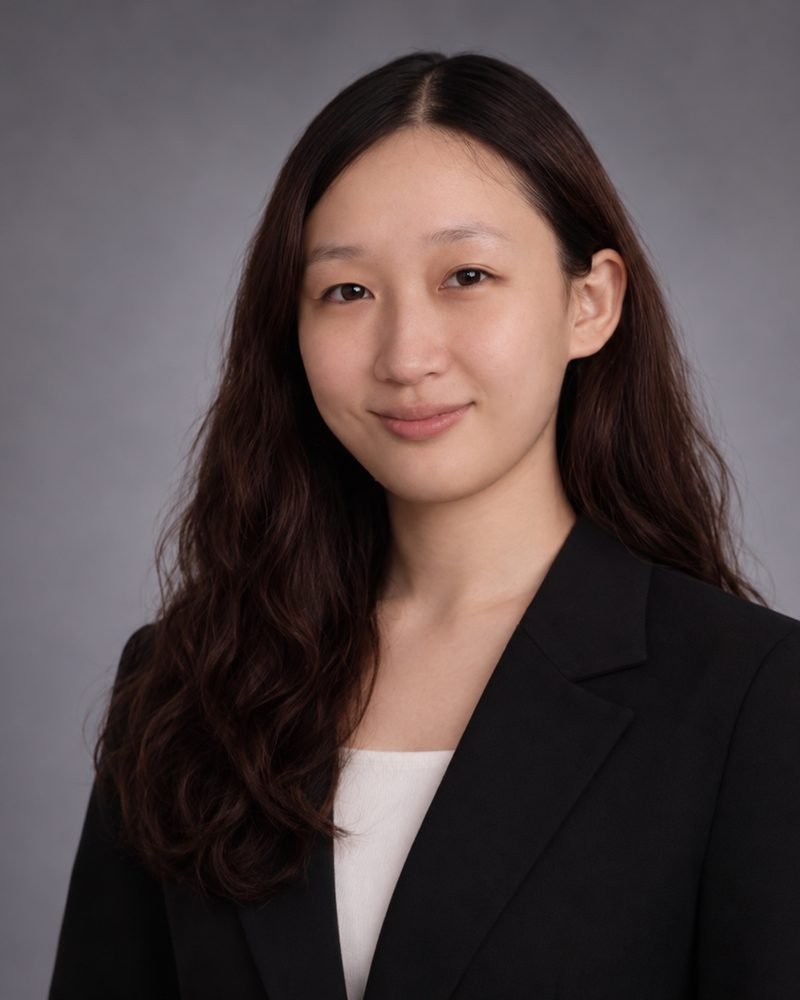
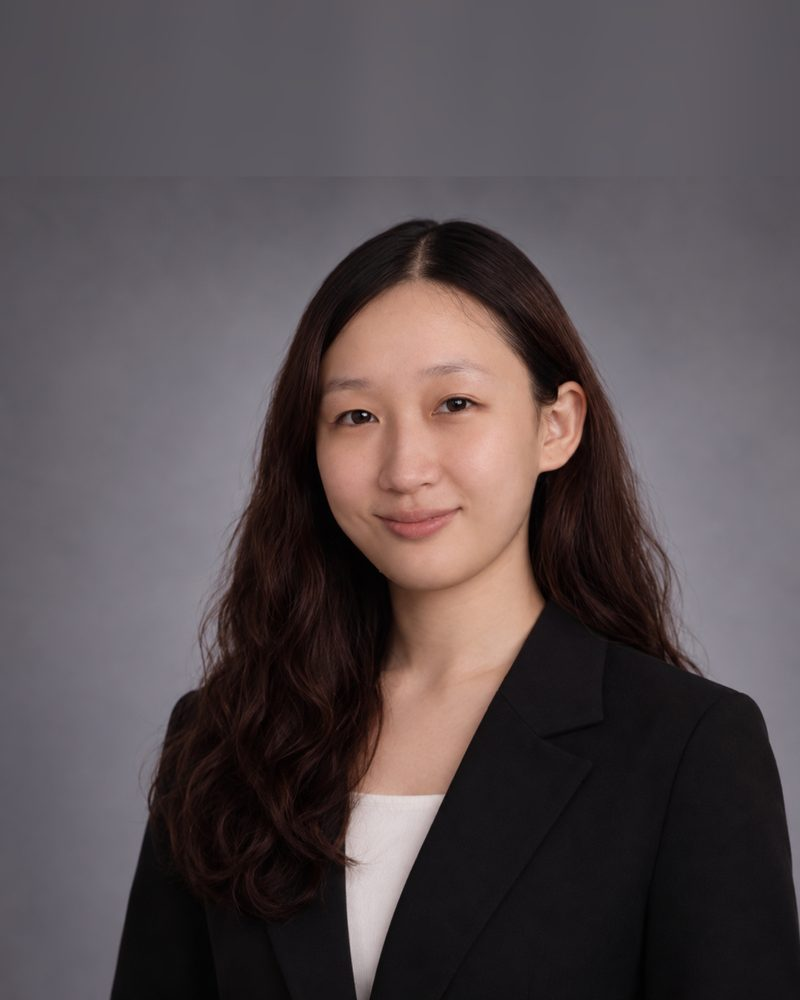
Give Rainbow Lin's headshot more headroom; revert Yuanyuan Cui's photo position

diff --git a/site/people/index.html b/site/people/index.html
@@ -89,7 +89,7 @@
         </article>
 
         <article class="person reveal">
-          <picture><source srcset="/assets/img/people/yuanyuan-cui.webp" type="image/webp"><img class="person__photo" style="object-position:50% 0%" src="/assets/img/people/yuanyuan-cui.jpg" alt="Yuanyuan Cui" loading="lazy" width="264" height="264"></picture>
+          <picture><source srcset="/assets/img/people/yuanyuan-cui.webp" type="image/webp"><img class="person__photo" src="/assets/img/people/yuanyuan-cui.jpg" alt="Yuanyuan Cui" loading="lazy" width="264" height="264"></picture>
           <h2 class="person__name">Yuanyuan Cui</h2>
           <p class="person__bio">I&rsquo;m a Master of Information student at the University of Toronto, focusing on data science and information systems design. My background is in finance, and it shapes how I look at data: I tend to ask what the numbers really mean, what risks they show, and what decisions they can support. I bring that mindset to my experience in data analysis and systems integration.</p>
           <p class="person__bio">It&rsquo;s also why I&rsquo;m interested in where technologies come from. I like looking at those stories through both a data and a financial lens: what the numbers say about how an idea grew, and what made it worth the investment.</p>
@@ -103,7 +103,7 @@
         </article>
 
         <article class="person reveal">
-          <picture><source srcset="/assets/img/people/yuhong-lin.webp" type="image/webp"><img class="person__photo" src="/assets/img/people/yuhong-lin.jpg" alt="Yuhong (Rainbow) Lin" loading="lazy" width="264" height="264"></picture>
+          <picture><source srcset="/assets/img/people/yuhong-lin.webp?v=2" type="image/webp"><img class="person__photo" src="/assets/img/people/yuhong-lin.jpg?v=2" alt="Yuhong (Rainbow) Lin" loading="lazy" width="264" height="264"></picture>
           <h2 class="person__name">Yuhong (Rainbow) Lin</h2>
           <p class="person__bio">Yuhong (Rainbow) Lin is a Master of Information student at the Faculty of Information, University of Toronto, concentrating in Knowledge Management and Information Management. She currently works as a Graduate Student Library Assistant (GSLA) in the Metadata Department at Robarts Library, where she gains practical experience in library metadata and information organization.</p>
           <p class="person__bio">With an academic background in accounting from Western University, her interests lie at the intersection of information systems, knowledge management, and organizational effectiveness. Her interest in the field grew from her two-year experience as Vice President of Administration of a Chinese student association at Western University. During this time, she helped revitalize the organization by addressing challenges in information management, institutional knowledge retention, and leadership transition. This experience inspired her to explore how well-designed information systems and effective knowledge-sharing practices can strengthen organizational sustainability and decision-making.</p>
